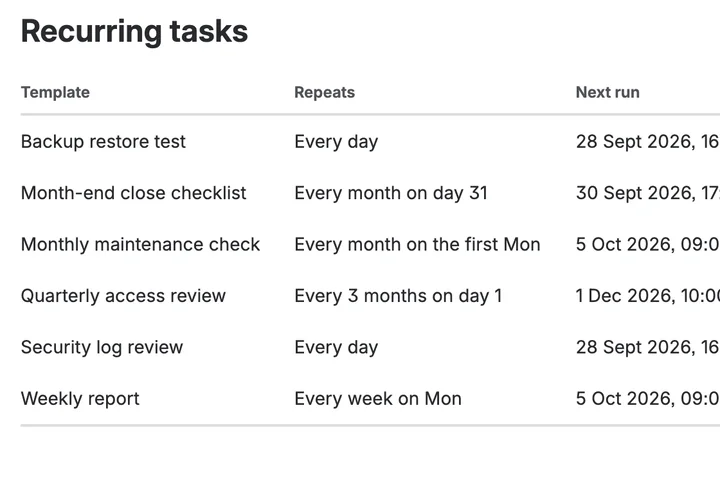
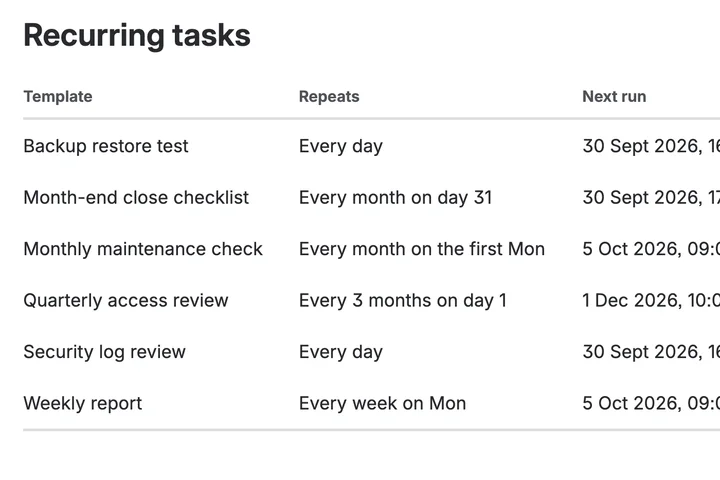
Recur: the demo re-shot on 3.4.0, and a poster from the production install
The embedded demo is o-kS2m1x0qI (1:00), recorded on the production install:
the OPS list with one template waiting on its last issue, the weekly report
written once in a real time zone, the pile-up choice, the next ten runs, and
a history with a created issue, a skipped run and a failed one. The old demo
opened on an empty project and played the history caption over the list.

The poster was an August screenshot of the development site, with its
sidebar open and templates that no longer exist; it and the home page card
are re-cut from the production list.

diff --git a/recur/index.html b/recur/index.html
@@ -58,9 +58,9 @@
           "name": "Recur for Jira — recurring tasks that keep their own schedule",
           "description": "Create Jira issues on a schedule: weekly reports, monthly maintenance, quarterly reviews. Correct across daylight saving, with a per-template answer for what happens when the last one is still open.",
           "thumbnailUrl": "https://keelapps.app/assets/screenshots/recur-demo-poster.png",
-          "uploadDate": "2026-09-26T18:10:00+03:00",
-          "duration": "PT1M5S",
-          "embedUrl": "https://www.youtube-nocookie.com/embed/MJbRTmWBPTk"
+          "uploadDate": "2026-09-29T16:22:00+03:00",
+          "duration": "PT1M0S",
+          "embedUrl": "https://www.youtube-nocookie.com/embed/o-kS2m1x0qI"
         }
       }
     </script>
@@ -144,8 +144,8 @@
       <figure class="showcase" id="demo">
         <iframe
           class="showcase__player"
-          src="https://www.youtube-nocookie.com/embed/MJbRTmWBPTk"
-          srcdoc="<style>*{margin:0;padding:0}html,body{height:100%;overflow:hidden;background:#0F2536}a{display:block;height:100%;position:relative}img{display:block;width:100%;height:100%;object-fit:cover}span{position:absolute;inset:0;margin:auto;width:5rem;height:5rem;border-radius:50%;background:rgba(15,37,54,.86);color:#F4EFE6;display:grid;place-items:center;font:2rem/1 sans-serif}a:hover span{background:rgba(15,37,54,1)}</style><a href='https://www.youtube-nocookie.com/embed/MJbRTmWBPTk?autoplay=1' aria-label='Play the Recur product demo'><img src='/assets/screenshots/recur-demo-poster.png' alt=''><span>&#9654;</span></a>"
+          src="https://www.youtube-nocookie.com/embed/o-kS2m1x0qI"
+          srcdoc="<style>*{margin:0;padding:0}html,body{height:100%;overflow:hidden;background:#0F2536}a{display:block;height:100%;position:relative}img{display:block;width:100%;height:100%;object-fit:cover}span{position:absolute;inset:0;margin:auto;width:5rem;height:5rem;border-radius:50%;background:rgba(15,37,54,.86);color:#F4EFE6;display:grid;place-items:center;font:2rem/1 sans-serif}a:hover span{background:rgba(15,37,54,1)}</style><a href='https://www.youtube-nocookie.com/embed/o-kS2m1x0qI?autoplay=1' aria-label='Play the Recur product demo'><img src='/assets/screenshots/recur-demo-poster.png' alt=''><span>&#9654;</span></a>"
           width="1840"
           height="900"
           title="Recur for Jira — recurring tasks on a schedule (product demo)"
@@ -155,9 +155,10 @@
           referrerpolicy="strict-origin-when-cross-origin"
         ></iframe>
         <figcaption>
-          Every recurring template in one list, a cadence in a real time zone, what happens when
-          the last one is still open, and the record of every run.
-          <a href="https://www.youtube.com/watch?v=MJbRTmWBPTk">Watch on YouTube</a>.
+          Six templates in one list, one of them waiting on its last issue; the weekly report
+          written once, in a real time zone; what happens when the last one is still open; and a
+          history with a created issue, a skipped run and a failed one, each with its reason.
+          <a href="https://www.youtube.com/watch?v=o-kS2m1x0qI">Watch on YouTube</a>.
         </figcaption>
       </figure>
 

diff --git a/accesslens/index.html b/accesslens/index.html
@@ -320,7 +320,7 @@
             <p class="app-card__name">Recur for Jira</p>
             <p class="app-card__links">
               <a href="/recur/">Product page</a>
-              <a href="/recur/#demo"><svg viewBox="0 0 10 10" aria-hidden="true"><path d="M2 1.2 8.6 5 2 8.8Z" fill="currentColor" /></svg>Demo 1:05</a>
+              <a href="/recur/#demo"><svg viewBox="0 0 10 10" aria-hidden="true"><path d="M2 1.2 8.6 5 2 8.8Z" fill="currentColor" /></svg>Demo 1:00</a>
               <a href="/recur/docs/">Docs</a>
             </p>
           </li>

diff --git a/digest/index.html b/digest/index.html
@@ -360,7 +360,7 @@
             <p class="app-card__name">Recur for Jira</p>
             <p class="app-card__links">
               <a href="/recur/">Product page</a>
-              <a href="/recur/#demo"><svg viewBox="0 0 10 10" aria-hidden="true"><path d="M2 1.2 8.6 5 2 8.8Z" fill="currentColor" /></svg>Demo 1:05</a>
+              <a href="/recur/#demo"><svg viewBox="0 0 10 10" aria-hidden="true"><path d="M2 1.2 8.6 5 2 8.8Z" fill="currentColor" /></svg>Demo 1:00</a>
               <a href="/recur/docs/">Docs</a>
             </p>
           </li>

diff --git a/index.html b/index.html
@@ -169,7 +169,7 @@
             <p class="app-card__name">Recur for Jira</p>
             <p class="app-card__links">
               <a href="/recur/">Product page</a>
-              <a href="/recur/#demo"><svg viewBox="0 0 10 10" aria-hidden="true"><path d="M2 1.2 8.6 5 2 8.8Z" fill="currentColor" /></svg>Demo 1:05</a>
+              <a href="/recur/#demo"><svg viewBox="0 0 10 10" aria-hidden="true"><path d="M2 1.2 8.6 5 2 8.8Z" fill="currentColor" /></svg>Demo 1:00</a>
               <a href="/recur/docs/">Docs</a>
             </p>
           </li>

diff --git a/mail-templates/index.html b/mail-templates/index.html
@@ -375,7 +375,7 @@
             <p class="app-card__name">Recur for Jira</p>
             <p class="app-card__links">
               <a href="/recur/">Product page</a>
-              <a href="/recur/#demo"><svg viewBox="0 0 10 10" aria-hidden="true"><path d="M2 1.2 8.6 5 2 8.8Z" fill="currentColor" /></svg>Demo 1:05</a>
+              <a href="/recur/#demo"><svg viewBox="0 0 10 10" aria-hidden="true"><path d="M2 1.2 8.6 5 2 8.8Z" fill="currentColor" /></svg>Demo 1:00</a>
               <a href="/recur/docs/">Docs</a>
             </p>
           </li>

diff --git a/prefill/index.html b/prefill/index.html
@@ -409,7 +409,7 @@
             <p class="app-card__name">Recur for Jira</p>
             <p class="app-card__links">
               <a href="/recur/">Product page</a>
-              <a href="/recur/#demo"><svg viewBox="0 0 10 10" aria-hidden="true"><path d="M2 1.2 8.6 5 2 8.8Z" fill="currentColor" /></svg>Demo 1:05</a>
+              <a href="/recur/#demo"><svg viewBox="0 0 10 10" aria-hidden="true"><path d="M2 1.2 8.6 5 2 8.8Z" fill="currentColor" /></svg>Demo 1:00</a>
               <a href="/recur/docs/">Docs</a>
             </p>
           </li>

diff --git a/satchel/index.html b/satchel/index.html
@@ -424,7 +424,7 @@
             <p class="app-card__name">Recur for Jira</p>
             <p class="app-card__links">
               <a href="/recur/">Product page</a>
-              <a href="/recur/#demo"><svg viewBox="0 0 10 10" aria-hidden="true"><path d="M2 1.2 8.6 5 2 8.8Z" fill="currentColor" /></svg>Demo 1:05</a>
+              <a href="/recur/#demo"><svg viewBox="0 0 10 10" aria-hidden="true"><path d="M2 1.2 8.6 5 2 8.8Z" fill="currentColor" /></svg>Demo 1:00</a>
               <a href="/recur/docs/">Docs</a>
             </p>
           </li>
